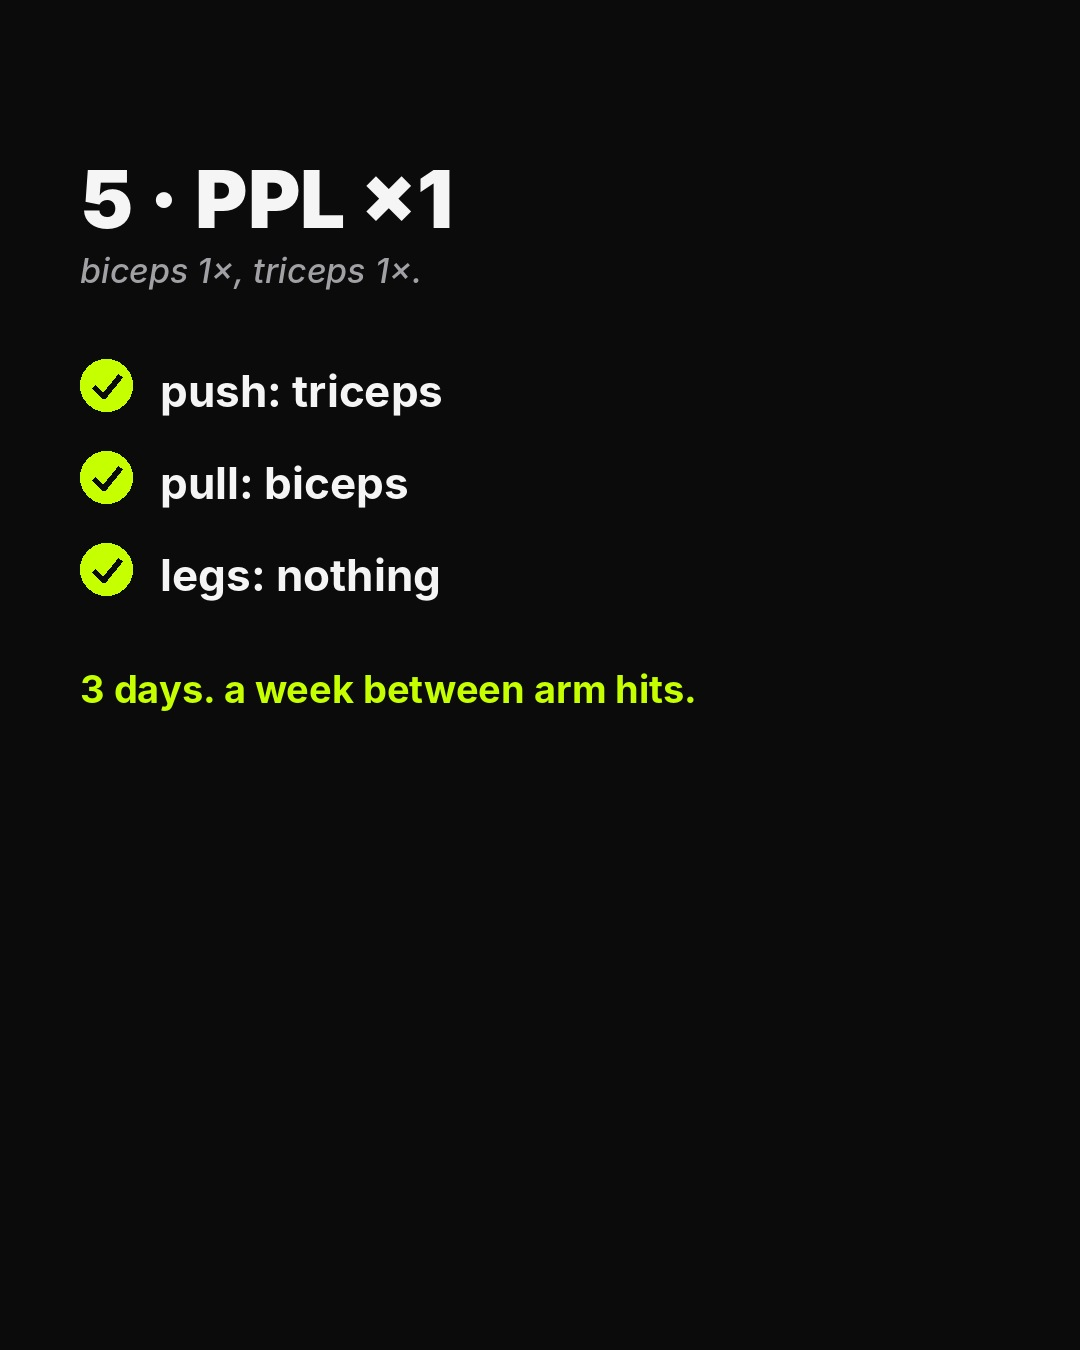
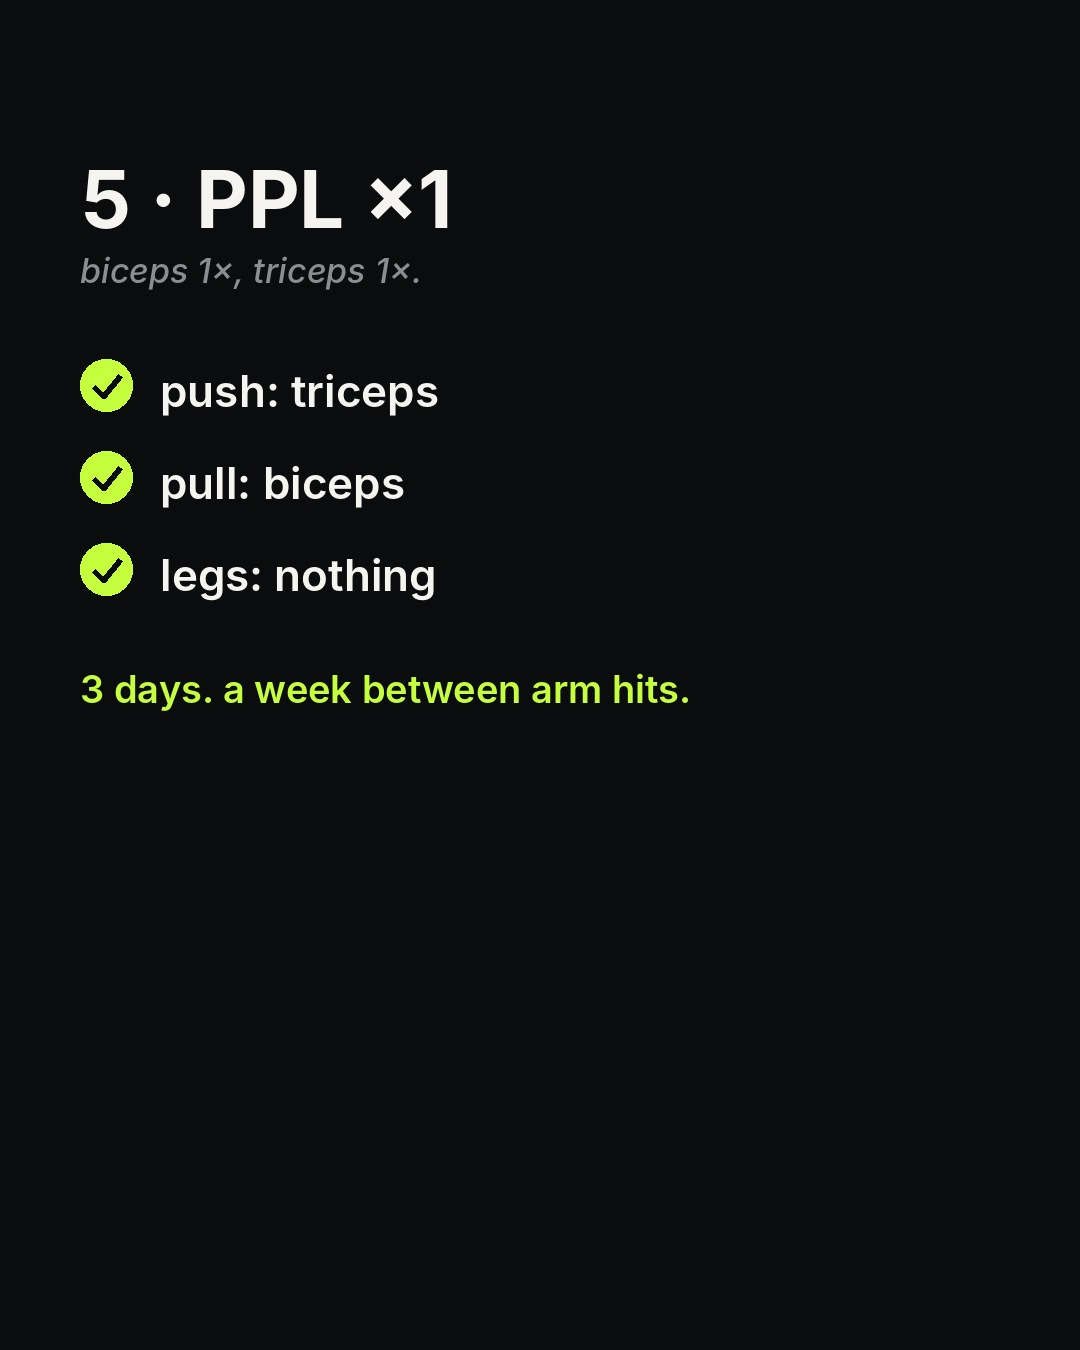
Apply the 24 Nov content brief: facts, claims, no rescheduling, no mascot on @earndapp, waitlist CTA, new palette/type/phone frame; fix tonight's 23:00 post
Claude-Session: https://claude.ai/code/session_01Ws8S991F2EukoMgPY9duxg

diff --git a/.claude/skills/slideshow-engine/scripts/arrow_render.py b/.claude/skills/slideshow-engine/scripts/arrow_render.py
@@ -16,8 +16,8 @@ from PIL import Image, ImageDraw, ImageFont
 
 ROOT = os.path.abspath(os.path.join(os.path.dirname(__file__), "..", "..", "..", ".."))
 W, H, M = 1080, 1350, 80
-BG, INK, SOFT, LIME, DARK = (11, 11, 11), (245, 245, 245), (160, 160, 165), (198, 255, 0), (11, 11, 11)
-BLACK = "/usr/share/fonts/opentype/inter/Inter-Black.otf"; BOLD = "/usr/share/fonts/opentype/inter/Inter-Bold.otf"
+BG, INK, SOFT, LIME, DARK = (11, 12, 13), (245, 244, 240), (138, 142, 146), (198, 255, 61), (11, 12, 13)   # content brief 2026-11-24
+BLACK = "/usr/share/fonts/opentype/inter/Inter-Bold.otf"; BOLD = "/usr/share/fonts/opentype/inter/Inter-SemiBold.otf"   # brief: Inter Bold 700 headlines, SemiBold 600 subheads
 ITAL = "/usr/share/fonts/opentype/inter/Inter-MediumItalic.otf"
 if not os.path.exists(ITAL): ITAL = "/usr/share/fonts/opentype/inter/Inter-Medium.otf"
 F = lambda p, s: ImageFont.truetype(p, s)
@@ -73,7 +73,7 @@ def render(set_dir):
             for text, hl in s["title"]: y = hl_line(d, 0, y, text, 92, hl, center=True)
             if s.get("sub"):
                 f = F(ITAL, 34); tw = d.textlength(s["sub"], font=f); d.text(((W - tw) / 2, y + 20), s["sub"], font=f, fill=SOFT); y += 80
-            fit_in(img, pose(s.get("pose", "cover-arms-open")), (M, y + 20, W - M, H - 40))
+            if s.get("pose"): fit_in(img, pose(s["pose"]), (M, y + 20, W - M, H - 40))   # no mascot on @earndapp since the brief (2026-11-24)
         elif t == "structure":
             y = 150; y = hl_line(d, M, y, s["title"], 80, False)
             if s.get("sub"):
@@ -111,6 +111,7 @@ def render(set_dir):
             sh.thumbnail((W - 2 * M, H - y - 240), Image.LANCZOS)
             m = Image.new("L", sh.size, 0); ImageDraw.Draw(m).rounded_rectangle((0, 0) + sh.size, 36, fill=255)
             px = (W - sh.width) // 2; py = int(y + 60); img.paste(sh, (px, py), m)
+            d.rounded_rectangle([px - 10, py - 10, px + sh.width + 10, py + sh.height + 10], 44, outline=(42, 45, 48), width=8)   # stroked phone frame (brief)
             if s.get("example"):
                 f = F(BLACK, 28); tw = d.textlength("example", font=f)
                 d.rounded_rectangle([px + sh.width - tw - 40, py - 54, px + sh.width, py - 10], 10, fill=LIME); d.text((px + sh.width - tw - 20, py - 50), "example", font=f, fill=DARK)

diff --git a/CLAUDE.md b/CLAUDE.md
@@ -25,6 +25,15 @@ default_app_slide: 4
 
 ## Standing rules
 
+- **Content brief (founder, 2026-11-24) = the source of truth for facts, claims and brand: `01-app/content-brief.md`.** Read it before writing any set. Key points:
+  - **The app:** EARND tells you exactly what to lift on every set, logs it in one tap, even from your Lock Screen, and only adds weight when you've earned it. **iPhone only, iOS 18+** (no Android, web or Apple Watch). Pre-launch: say "coming soon" / "join the waitlist", never "out now". Price $29.99/year or $6.99/month; hard paywall; **no free trial, no free version, no lifetime plan**.
+  - **Method:** Upper/Lower 4 days (Upper A, Lower A, rest, Upper B, Lower B, rest, rest); two hard working sets per exercise, each muscle twice a week (~5–6 hard sets per muscle per week); **double progression on 4–8 reps for every exercise** (every set to 8 with clean form → weight goes up, back near 4–5); ~1 rep in reserve, not to failure; **rest at least 3 min after compound lifts, 2:30 for single-joint work, 45–60 s between warm-ups**; calves first on lower days (3–5 s stretch); machine-based list incl. pendulum squat; **Week 0** practice week to find starting weights.
+  - **Features, in content priority:** 1 **Lock Screen workouts (hero)** · 2 one-tap sets · 3 the target on every set · 4 the **EARNED** moment ("+2.5 kg EARNED") · 5 share card · 6 personalised plan with a 12-week **target** · 7 rest timer · 8 workout verdict · 9 progress chart + PRs.
+  - **Approved claims:** "Know exactly what to lift on every set." · "Log a set in one tap, even from your Lock Screen." · "Weight only goes up when you've earned it." · "Upper / Lower, two hard sets, 4–8 reps. No junk volume." · "Built around double progression." · "Your data stays on your iPhone." · "Personalised plan with a 12-week target" (always a target/projection, never a promise).
+  - **Never say:** guaranteed results; "free" / "free trial" / "lifetime"; **"AI" or "AI coach"** (there is no AI in the app); Android, Apple Watch, Apple Health, iCloud sync, nutrition/calorie or cardio tracking, video exercise demos; fake ratings, reviews, user counts or testimonials; medical/injury claims ("fixes back pain"); **Paul Carter / @liftrunbang1's name, face, clips or quotes, or any hint he endorses EARND** (his topics and the papers stay fine, our words).
+  - **Brand (@earndapp and anything EARND-branded):** voice direct, confident, a bit blunt, plain gym English, short sentences, numbers over adjectives, no hype words ("insane", "game-changer"). Colours bg #0B0C0D, text #F5F4F0, secondary #8A8E92, tertiary #5C6165, **lime #C6FF3D** (one accent per frame, for the number that matters), cards #1C1E20, strokes #2A2D30. Type Inter (Bold 700 headlines, SemiBold 600 subheads). Look: dark, minimal, **real app screens in a stroked phone frame**, one lime highlight, no gradients, no stock gym photos, **no mascot** (the graphite mascot is retired on @earndapp; the theme accounts keep their own characters: Ryo, Dale, the gold-line figures). Taglines: "Earn every kilo." / "Beat last week. Every week." / "Numbers that move."
+  - **Content pillars:** 1 the magic (Lock Screen ✓, one-tap sets) · 2 the method (why 2 sets of 4–8 beats 5 sets of 12) · 3 the moment (EARNED reveals) · 4 the problem (same weights for months, Notes-app logging, random workouts). Hooks to start from are in the brief §10.
+
 - Optimize each post for views. Judge formats weekly on total downloads.
 - Target market (founder, 2026-11-08): **UK and US first**, then Canada and Australia, then Ireland and New Zealand. Write for them (English, UK/US gym references, trends and sounds from UK/US creators), suggest posting times for UK/US evenings, and track the viewer location split weekly (TikTok Studio → Analytics → Viewers → Locations). On 1–7 Nov @earndapp's viewers were 55.5% Greece, 7% UK.
 - **Founder links = recreate them as closely as possible (founder, 2026-11-18).** When the founder sends videos or content ideas, rebuild each one shot for shot: same structure, scene order, timing and length, number of sides/panels, camera angle, layout, text placement, colour mood, motion that matches the exercise, the same kind of hook, catch and caption ending, and the same sound when it's in TikTok's library. Then tailor it to EARND: our accounts' look, our CTA/disclosure, a real app screen, studies re-verified. What stays ours: the drawing itself, the wording (no copied scripts or captions), no copied mascots/characters/logos/footage, and nothing implying we're them. List anything that couldn't be matched and why.
@@ -47,7 +56,7 @@ default_app_slide: 4
 - Accounts are configured in `06-queue/accounts.json` (handle, type, voice, visual template, CTA and destination, disclosure). Every set is written for exactly one account and names it in `slides.json` → `account`. Never use a field marked TO CONFIRM without asking.
 - Readiness is per account: `python3 .claude/skills/slideshow-engine/scripts/account_status.py`. An account with unconfirmed required settings blocks only its own sets.
 - Founder (@ezyxbt) photos: always pick the strongest, most relevant of the founder's supplied photos for each slide (`01-app/founder-photo-catalog.md`). Minor edits allowed (crop, resize, straighten, exposure/colour, cropping out background clutter and other people; blur only lightly, never heavy background blur) (founder, 2026-11-01; light blur only, founder 2026-11-03). Never edit the face; physique unchanged; nothing generated. Crop out other gym members. If none fit, ask the founder for more photos.
-- **No cross-account duplicates (founder, 2026-11-15).** Each template belongs to one account: the edu template (graphite mascot, "N exercises. your whole X") is @earndapp's only; @earnie.lifts does not use it. **@earnie.lifts is now Ryo** (founder 2026-11-15): an original gritty anime lifter (no copyrighted characters or names), **3 bluebro-style slideshows a day, no videos**: tier lists, rankings, "exact sets per muscle", myths ranked, on white with an amber `works:` tag, no muscle glow (`tier_render.py`, poses in `01-app/brand/earnie-v3/`). Handle stays @earnie.lifts until end of November, then @ryo.lifts. **The 3D stickman videos move to @quiet.reps4** (1 of its 3 daily videos, gold glow; real 3D white stick figures since 2026-11-18: `anim_doer.py` / `"render": "3d"`, `mannequin3d.py` style "stick"). Two accounts may share a topic only with a different format, look and hook. Before showing any day's sets, run `python3 .claude/skills/slideshow-engine/scripts/dup_check.py` and rewrite anything it flags.
+- **No cross-account duplicates (founder, 2026-11-15).** Each template belongs to one account: the edu template ("N exercises. your whole X"; graphite mascot retired on @earndapp by the content brief 2026-11-24) is @earndapp's only; @earnie.lifts does not use it. **@earnie.lifts is now Ryo** (founder 2026-11-15): an original gritty anime lifter (no copyrighted characters or names), **3 bluebro-style slideshows a day, no videos**: tier lists, rankings, "exact sets per muscle", myths ranked, on white with an amber `works:` tag, no muscle glow (`tier_render.py`, poses in `01-app/brand/earnie-v3/`). Handle stays @earnie.lifts until end of November, then @ryo.lifts. **The 3D stickman videos move to @quiet.reps4** (1 of its 3 daily videos, gold glow; real 3D white stick figures since 2026-11-18: `anim_doer.py` / `"render": "3d"`, `mannequin3d.py` style "stick"). Two accounts may share a topic only with a different format, look and hook. Before showing any day's sets, run `python3 .claude/skills/slideshow-engine/scripts/dup_check.py` and rewrite anything it flags.
 - Adapting a set for another account means a new set with its own hooks and visuals in that account's voice and template, never a copy.
 - Never present our own promotional pages as independent recommendations. Founder and theme-page posts say EARND is ours.
 - The app enters on slide 3 or 4 by default, in the account's voice (brand: direct EARND product language). Exception: @ezyxbt native-tip format puts it on the second-to-last "real tip" slide (founder, 2026-11-01).
@@ -55,15 +64,15 @@ default_app_slide: 4
 - Accounts (founder lifted the account limit 2026-11-04; plan in `03-ideas/distribution-plan-2026-11-04.md`). TikTok: @earndapp, @ezyxbt, @earnie.lifts, @gymbro.skits, @whatif.overload. Instagram: @earndapp, @earnie.lifts, @gymbro.skits, @whatif.overload (same brand and content as its TikTok; @ezyxbt is TikTok only). Every account runs its own format: never post one account's set on another brand. Content mix (founder, 2026-11-04): @ezyxbt stays photo slideshows only; @earndapp and @earnie.lifts post a mix of slideshows and mascot videos (3–5 posts a day: 2–4 slideshows + exactly 1 video, at least one post a new-format test; videos carry TikTok's AI label; founder 2026-11-06, 1 video a day). Judge each format on the kill/scale rule in the plan.
 - 5 to 10 slides (5 is the default on @earndapp and @ezyxbt, see slide length). One idea per slide. Under 25 words per slide. Exception: @ezyxbt one-liner photos are a single image with one line, no app slide, no CTA and no caption; one per day on top of his 2–4 slideshows (founder, 2026-11-05; format: `02-research/formats/oneliner-photo.md`).
 - ~~Sound suggestions~~ **ended (founder, 2026-11-19): "forget about the sounds from now on."** No sound picks in `posting.md`, no daily sound bank, no sound column in the day's table. **But every video ships with sound baked in (founder, 2026-11-19: "there should be some sort of sound for the videos", like his reference reels: a beat, a hit on every step, a swell at the payoff):** a music bed generated for that video with Higgsfield (ElevenLabs Music v2.5, instrumental, ours, never a copied track) + our own SFX on the story beats (`sound_mix.py`: boom, plate clank, hit, whoosh, riser, ding, tick), level-matched and limited, mixed to a fixed-length track before muxing. **Recipe per format = `02-research/formats/video-sound-profiles.md`** (founder 2026-11-19: "analyse everything I've shared and add the appropriate sounds"; measured from all his reference links): @stickmaxx comparison = hit on every step over a low dark gym beat, big swell at the reveal; study race = slow cinematic piano/strings, no SFX, gentle build to the catch; @quiet.reps4 = dark synth that builds hard to the payoff, few SFX; @whatif.overload = narrator leads, quiet quirky bed ducked under it. Use `music_curve` for the build. Videos with our own voice keep their voice track. **Voice (founder, 2026-11-19): only @whatif.overload's Explainer 3D videos get an AI narrator**, the best Higgsfield has (founder: "use higgsfield and add the best narration"): **ElevenLabs v4 (`elevenlabs_v4`), voice Knox, deadpan delivery tags, one line per scene** placed on that scene's start, mixed to a fixed-length track before muxing; script in our words, ends before the end card. All other videos (@earndapp, @quiet.reps4) stay text-only, no narrator.
-- Never invent app UI. Only real screenshots from `01-app/assets/`.
+- Never invent app UI. Only real, **current** screenshots: the App Store set (`screenshots/iphone/en/01–06`: 01 target on every set · 02 EARNED · 03 personalised plan · 04 progress · 05 rest timer · 06 technique) and the Lock Screen photo ("Seated Leg Curl 60 kg × 8", re-recorded on a plain wallpaper) once the founder uploads them to `01-app/assets/`. **Outdated, do not use (content brief 2026-11-24):** the old screens in `01-app/assets/` showing "Previous: …", "Add 1 rep, target 9 total", the warm-up button, old target wording or rescheduling (`exercise-target.png`, `demo-*.png`, `demo-move-session.png`, and any `promo/marketing-*`, `promo/demo-*`, `promo/still-*`, `promo/EARND-0*.mp4`, `promo/EARND-TikTok-01.mp4`). Until the new screenshots arrive, ask before using any app screen (founder OK'd one last use on 24 Nov).
 - Read `07-results/winners.md` and `07-results/failure-log.md` before writing any set.
 - Nothing is queued without my approval in chat. Posting is manual for now (2026-10-28): no Humanpost. Approved sets get a `posting.md` pack, and I post them myself. **Zips (founder, 2026-11-16): one zip per account** (`06-queue/zips-DATE/<account>.zip`), with one folder per post inside, numbered in posting order with the UK time (`1 - 19.15 - slug/`). **Each account's posts are 4 hours apart at 3, 7 and 11 pm UK** (founder, 2026-11-20, from Sat 21 Nov; was 5/8/11): @earndapp 15:00 / 19:00 / 23:00, @ezyxbt 15:20 / 19:20 / 23:20, Ryo 15:40 / 19:40 / 23:40, @quiet.reps4 18:30 and @whatif.overload 19:30 (one video a day each). (US East sees them at 10 am, 2 pm and 6 pm.) **Postiz is cut off completely (founder, 2026-11-22; used 20–22 Nov only).** Posting is by hand from the zips again, with TikTok's AI label ON for AI posts. Never schedule through Postiz. The Sunday review checks whether the first post of the day underperforms.
 - Our accounts never comment on or engage with each other.
 - EARND has no free trial. Weekly reviews track paid subscriptions, not trials (the `trials` column in `07-results/revenue.csv` stays blank). Locate drop-offs with the funnel in `01-app/app-brief.md` → Pricing.
 - App launch postponed to **end of November** (founder, 2026-11-14; was Sat 14 Nov). Prelaunch CTAs stay until then. The line-art account and @whatif.overload start posting from 14 Nov regardless.
-- Prelaunch: every set ends with its account's prelaunch CTA from `accounts.json` (@earndapp: "EARND launches soon. Follow for the launch."). No download CTA or links until `phase` is "launched" and `launch.download_url` is set. No trial references.
+- Prelaunch: every set ends with its account's prelaunch CTA from `accounts.json` (@earndapp: "Coming soon to iPhone. Join the waitlist." — content brief 2026-11-24; was "EARND launches soon. Follow for the launch."). No download CTA or links until `phase` is "launched" and `launch.download_url` is set. No trial references.
 - Numerical examples (e.g. 100 kg × 7 → 100 kg × 8) are always labelled "example" on the slide. Sets × reps prescriptions (e.g. 2 × 4–8) are shown plain, without the "example" tag (founder, 2026-10-30); weights in progression examples stay labelled "example". Exception: @whatif.overload's joke escalations (e.g. Dale's +2.5 kg/week) carry no "example" tag (founder, 2026-11-04).
-- Scheduling: users move the four prescribed sessions to available days. Never say the programme adapts to fewer sessions.
+- Scheduling (content brief, founder 2026-11-24; replaces the 'move the session' rule): **the app has no rescheduling.** The sessions run in a fixed sequence (Upper A, Lower A, rest, Upper B, Lower B, rest, rest); training 2–3 days a week also works because the sequence just rolls on to the next session. Never say "move it" / "reschedule".
 - Never invent user experiences, testimonials, or independent endorsements.
 - No physique promises. Hooks and payoffs talk about tracking, targets, and having a plan. Users "can see when they've improved," never "numbers go up every week" or "know it's working."
 

diff --git a/04-sets/2026-11-24-earndapp-pick1-split-ranked-arms-9/posting.md b/04-sets/2026-11-24-earndapp-pick1-split-ranked-arms-9/posting.md
@@ -5,7 +5,7 @@
 - **Account:** @earndapp
 - **Upload:** slide-01.jpg … slide-09.jpg (1080×1350)
 - **Caption:** every split, ranked for your arms. how often do yours actually get trained? 👇 #armworkout #gymsplit #upperlower #biceps #triceps
-- **AI-generated content label:** **ON**
+- **AI-generated content label:** OFF (no generated art: real app screen only)
 - **Before posting:** no download link (prelaunch). Text is baked in: add nothing in TikTok's editor.
 - **Topic source:** winner remake (rule 1); EARND's 4-day upper/lower (biceps and triceps on both upper days)
 - **Test / remake:** 'ranking the best arm workout splits' (scan 11-24: tombeckles 436K)
